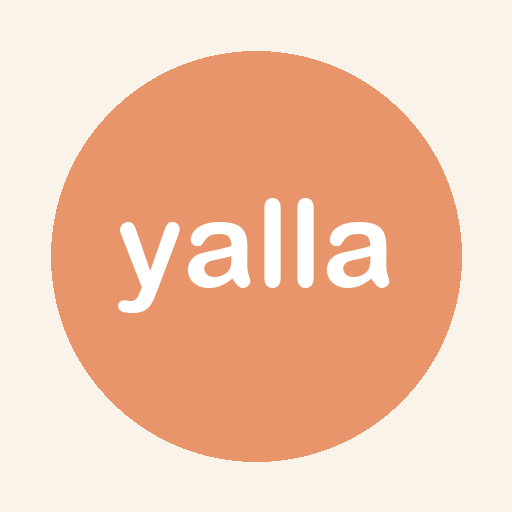
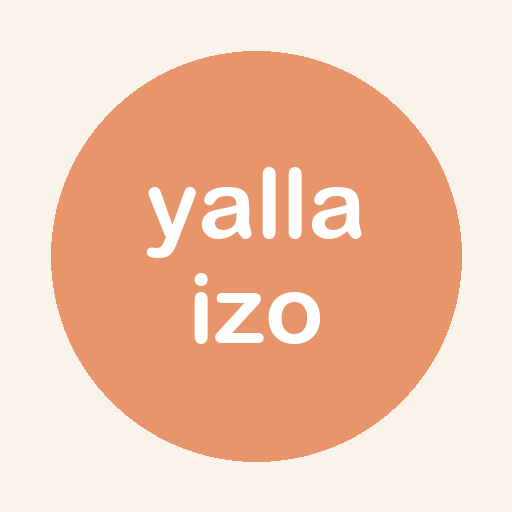
Renommage : Yalla Izo (titre, manifest, icone, accueil)

Changed region(s): [[0.2188, 0.3125, 0.7812, 0.6875]]

diff --git a/app.js b/app.js
@@ -189,7 +189,7 @@ function ecranAccueil() {
   }).join("");
 
   app.innerHTML = html`
-    ${entete("Yalla 🇱🇧", false)}
+    ${entete("Yalla Izo 🇱🇧", false)}
     <p class="salutation">Ahla Isaure ! Quelques minutes par jour, chwaye chwaye.</p>
 
     <button class="bouton-principal" data-action="session">
@@ -253,7 +253,7 @@ function ecranGuide(premierLancement) {
     ["ou", "Se lit comme en francais (« ou »).", "jou3ane = affamee"],
   ];
   app.innerHTML = html`
-    ${premierLancement ? `<div class="entete"><h1>Yalla 🇱🇧</h1></div>` : entete("Guide", true)}
+    ${premierLancement ? `<div class="entete"><h1>Yalla Izo 🇱🇧</h1></div>` : entete("Guide", true)}
     <div class="guide">
       <h2>Lire le franco-arabe</h2>
       <p class="intro">Le libanais s'ecrit ici en lettres latines, comme les Libanais le font sur WhatsApp.

diff --git a/index.html b/index.html
@@ -6,8 +6,8 @@
   <meta name="theme-color" content="#faf3ea">
   <meta name="apple-mobile-web-app-capable" content="yes">
   <meta name="apple-mobile-web-app-status-bar-style" content="default">
-  <meta name="apple-mobile-web-app-title" content="Yalla">
-  <title>Yalla, apprendre le libanais</title>
+  <meta name="apple-mobile-web-app-title" content="Yalla Izo">
+  <title>Yalla Izo, apprendre le libanais</title>
   <link rel="manifest" href="manifest.json">
   <link rel="apple-touch-icon" href="icons/icon-192.png">
   <link rel="stylesheet" href="styles.css">

diff --git a/sw.js b/sw.js
@@ -1,7 +1,7 @@
 // Service worker de Yalla.
 // VERSION est a incrementer a chaque mise a jour de l'app : cela invalide
 // l'ancien cache et force le rechargement des fichiers.
-const VERSION = "v4";
+const VERSION = "v5";
 const CACHE = "yalla-" + VERSION;
 
 const COEUR = [
